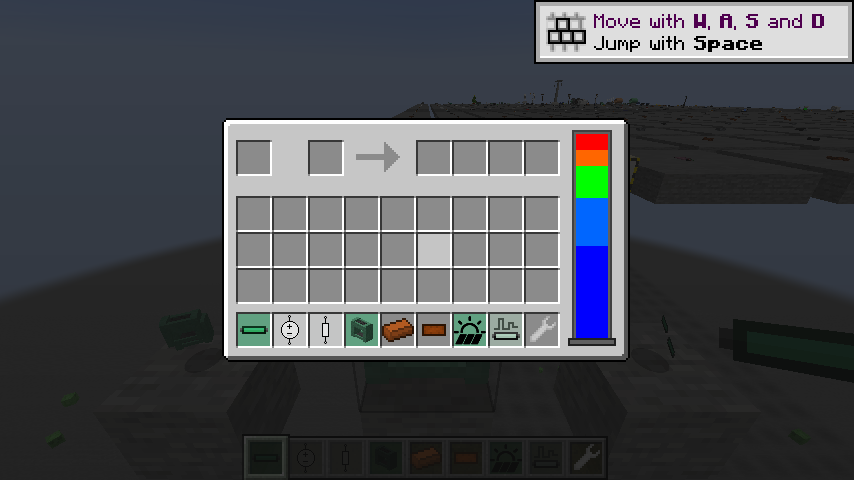
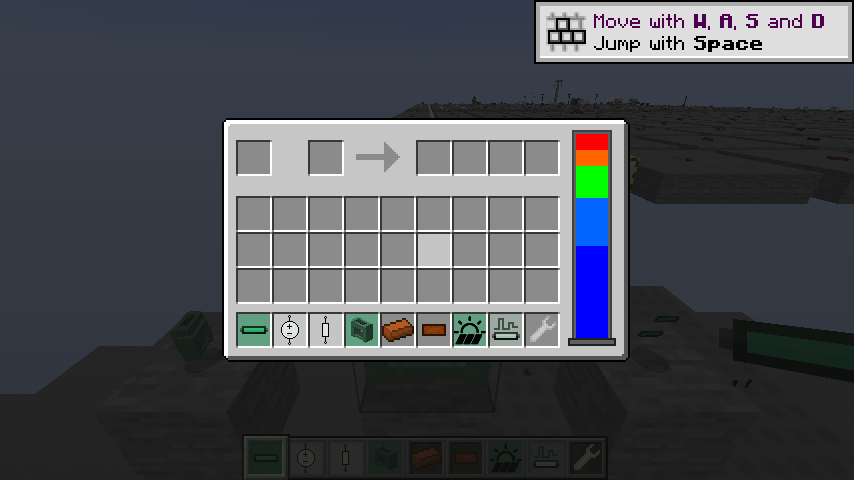
client: GL_LIGHTING off means unlit, the lightmap unit is a unit, the current normal resets per render
Every draw the emulator emitted went through the entity render types, whose shaders shade by
the vertex normal - and 1.7.10's icon code never sets a normal, so the voltage box behind every
inventory item, and any quad drawn without a normal, carried whatever the last model face left
in the current normal: 40% brightness on one machine, 100% on another, per frame. GL_LIGHTING
off now selects ElnRenderTypes.unlit (the text shader: colour x texture x lightmap, no normal),
which is what the fixed-function pipeline drew with lighting off; the current normal is reset to
GL's default when a render begins; inventory icons are drawn with lighting off, as Forge's
renderInventoryItem did around a custom flat icon.

OpenGlHelper.setActiveTexture was a no-op, so UtilsClient.disableLight - disable GL_TEXTURE_2D on
the lightmap unit - disabled the model's texture instead: glowing lamp parts drew as flat white.
The lightmap unit is tracked; off means full bright, the texture stays.

docs/port screenshots refreshed: the creative tab's voltage boxes are the 1.7.10 pastels in every row.

Claude-Session: https://claude.ai/code/session_01Lb5izv3ykLxYcSCdMc8SmK

Changed region(s): [[0.0, 0.5, 0.274, 0.8438], [0.7307, 0.5, 1.0, 0.7188]]

diff --git a/src/main/java/mods/eln/client/gl/FixedFunction.java b/src/main/java/mods/eln/client/gl/FixedFunction.java
@@ -53,6 +53,10 @@ public final class FixedFunction {
     /** The GL enable/disable flags and blend settings; copied on glPushAttrib. */
     static final class State implements Cloneable {
         boolean texture2d = true, lighting = true, cullFace = true, blend = false, depthTest = true, alphaTest = false, scissor = false, lineSmooth = false;
+        /** GL_TEXTURE_2D on 1.7.10's lightmap unit: off means the block light does not apply (glowing parts). */
+        boolean lightmap = true;
+        /** Which unit glEnable/glDisable(GL_TEXTURE_2D) addresses: 0 the texture, 1 the lightmap (OpenGlHelper.setActiveTexture). */
+        int activeTexture = 0;
         boolean depthMask = true;
         int blendSrc = GL11.GL_SRC_ALPHA, blendDst = GL11.GL_ONE_MINUS_SRC_ALPHA;
         float lineWidth = 1f;
@@ -91,7 +95,20 @@ public final class FixedFunction {
             packedOverlay = overlay;
             state = new State();
             attribStack.clear();
+            resetVertexState();
         }
+    }
+
+    /**
+     * The current normal (and texture coordinate) at GL's defaults, so a render that sets none
+     * does not inherit whatever the previous model's last face left behind.
+     */
+    private static void resetVertexState() {
+        nx = 0f;
+        ny = 0f;
+        nz = 1f;
+        u = 0f;
+        v = 0f;
     }
 
     /** Enters a GUI render: drawing goes straight through RenderSystem, in the GUI's pose. */
@@ -103,7 +120,13 @@ public final class FixedFunction {
             packedOverlay = OverlayTexture.NO_OVERLAY;
             state = new State();
             attribStack.clear();
+            resetVertexState();
         }
+    }
+
+    /** OpenGlHelper.setActiveTexture: 1.7.10 toggled the lightmap by disabling GL_TEXTURE_2D on its unit. */
+    static void activeTexture(int unit) {
+        state.activeTexture = unit;
     }
 
     /** Leaves the render entered with {@link #begin} / {@link #beginGui}, flushing the buffers. */
@@ -159,7 +182,9 @@ public final class FixedFunction {
     // ------------------------------------------------------------------ state
     static void enable(int cap, boolean on) {
         switch (cap) {
-            case GL11.GL_TEXTURE_2D -> state.texture2d = on;
+            case GL11.GL_TEXTURE_2D -> {
+                if (state.activeTexture == 1) state.lightmap = on; else state.texture2d = on;
+            }
             case GL11.GL_LIGHTING -> state.lighting = on;
             case GL11.GL_CULL_FACE -> state.cullFace = on;
             case GL11.GL_BLEND -> state.blend = on;
@@ -177,7 +202,7 @@ public final class FixedFunction {
 
     static boolean isEnabled(int cap) {
         return switch (cap) {
-            case GL11.GL_TEXTURE_2D -> state.texture2d;
+            case GL11.GL_TEXTURE_2D -> state.activeTexture == 1 ? state.lightmap : state.texture2d;
             case GL11.GL_LIGHTING -> state.lighting;
             case GL11.GL_CULL_FACE -> state.cullFace;
             case GL11.GL_BLEND -> state.blend;
@@ -281,7 +306,7 @@ public final class FixedFunction {
     }
 
     private static Batch current = null;
-    private static float u = 0f, v = 0f, nx = 0f, ny = 1f, nz = 0f;
+    private static float u = 0f, v = 0f, nx = 0f, ny = 0f, nz = 1f;   // GL defaults: normal toward the viewer
 
     // display lists
     private static final Map<Integer, List<Batch>> lists = new HashMap<>();
@@ -369,10 +394,13 @@ public final class FixedFunction {
         Matrix4f model = extra == null ? p.pose() : new Matrix4f(p.pose()).mul(extra);
         boolean textured = state.texture2d && state.texture != null;
         ResourceLocation tex = textured ? state.texture : WHITE;
-        int light = state.lighting ? packedLight : FULL_BRIGHT;
+        // the lightmap unit off (UtilsClient.disableLight) is full bright: glowing parts, GUI overlays
+        int light = state.lightmap ? packedLight : FULL_BRIGHT;
 
         if (buffers != null) {
+            // GL_LIGHTING on: the entity types, shaded by the normal. Off: no directional shading at all.
             RenderType type = lines ? RenderType.lines()
+                : !state.lighting ? ElnRenderTypes.unlit(tex, state.blend, state.cullFace)
                 : state.blend ? RenderType.entityTranslucent(tex)
                 : state.cullFace ? RenderType.entityCutout(tex) : RenderType.entityCutoutNoCull(tex);
             VertexConsumer vc = buffers.getBuffer(type);

diff --git a/src/main/java/mods/eln/client/gl/ElnRenderTypes.java b/src/main/java/mods/eln/client/gl/ElnRenderTypes.java
@@ -1,0 +1,51 @@
+package mods.eln.client.gl;
+
+import com.mojang.blaze3d.vertex.DefaultVertexFormat;
+import com.mojang.blaze3d.vertex.VertexFormat;
+import net.minecraft.client.renderer.RenderType;
+import net.minecraft.resources.ResourceLocation;
+
+import java.util.HashMap;
+import java.util.Map;
+
+/**
+ * The render types the fixed-function emulator needs and vanilla does not have: textured geometry
+ * with <b>no directional lighting</b>, which is what 1.7.10 drew whenever {@code GL_LIGHTING} was
+ * off (inventory icons, glowing lamp parts, cable sprites, GUI overlays). Every vanilla entity
+ * render type shades by the vertex normal; these use the text shader (colour x texture x
+ * lightmap, no normal at all), so a quad drawn without a normal comes out at its own colour.
+ *
+ * A subclass only to reach the protected state shards.
+ */
+public final class ElnRenderTypes extends RenderType {
+    private ElnRenderTypes(String name, VertexFormat format, VertexFormat.Mode mode, int bufferSize, boolean affectsCrumbling, boolean sortOnUpload, Runnable setup, Runnable clear) {
+        super(name, format, mode, bufferSize, affectsCrumbling, sortOnUpload, setup, clear);
+    }
+
+    private record Key(ResourceLocation texture, boolean blend, boolean cull) {
+    }
+
+    private static final Map<Key, RenderType> UNLIT = new HashMap<>();
+
+    /**
+     * Unlit textured quads, lit only by the lightmap: translucent-blended or cutout, back faces
+     * culled or not. The blended variant is depth-sorted on upload like every translucent type.
+     */
+    public static RenderType unlit(ResourceLocation texture, boolean blend, boolean cull) {
+        return UNLIT.computeIfAbsent(new Key(texture, blend, cull), key -> create(
+            "eln_unlit" + (blend ? "_translucent" : "_cutout") + (cull ? "" : "_no_cull"),
+            DefaultVertexFormat.POSITION_COLOR_TEX_LIGHTMAP,
+            VertexFormat.Mode.QUADS,
+            1536,
+            false,
+            blend,
+            CompositeState.builder()
+                .setShaderState(RENDERTYPE_TEXT_SHADER)
+                .setTextureState(new TextureStateShard(texture, false, false))
+                .setTransparencyState(blend ? TRANSLUCENT_TRANSPARENCY : NO_TRANSPARENCY)
+                .setCullState(cull ? CULL : NO_CULL)
+                .setLightmapState(LIGHTMAP)
+                .createCompositeState(false)
+        ));
+    }
+}

diff --git a/src/main/java/mods/eln/client/itemrender/NodeItemRenderer.java b/src/main/java/mods/eln/client/itemrender/NodeItemRenderer.java
@@ -73,6 +73,8 @@ public final class NodeItemRenderer extends BlockEntityWithoutLevelRenderer {
         }
         FixedFunction.begin(poseStack, buffers, light, overlay);
         try {
+            // Forge's inventory render of a flat custom icon turned GL_LIGHTING off around it: the sprite at its own colours
+            if (flatIcon) mods.eln.client.gl.GL11.glDisable(mods.eln.client.gl.GL11.GL_LIGHTING);
             renderer.renderItem(type, stack);
         } finally {
             FixedFunction.finish();

diff --git a/src/main/java/mods/eln/client/gl/OpenGlHelper.java b/src/main/java/mods/eln/client/gl/OpenGlHelper.java
@@ -12,6 +12,7 @@ public final class OpenGlHelper {
     public static int lastBrightnessX = 240, lastBrightnessY = 240;
 
     public static void setActiveTexture(int unit) {
+        FixedFunction.activeTexture(unit == lightmapTexUnit ? 1 : 0);
     }
 
     /** Lightmap coordinates are 0..240 in 1.7.10 terms (block, sky); pack them the way the light texture does. */

diff --git a/PORT-1.21.md b/PORT-1.21.md
@@ -51,6 +51,7 @@ runs in order; each exits 1 on a failed check):
 | Item models | Generated: `item/generated` with the icon and the voltage-level background as `layer0` for plain items; `builtin/entity` plus display transforms for node items, which `NodeItemRenderer` (a `BlockEntityWithoutLevelRenderer`) draws through the descriptor's own 1.7.10 `renderItem` body - the flat sprite (16-pixel, y-down space) in the inventory, the OBJ model in hand and on the ground. Descriptors that asked for 1.7.10's INVENTORY_BLOCK helper, or whose sprite the asset tree never had, draw their model in the inventory with a block's GUI transform. The families' per-type hand transforms were tuned for the 1.7.10 hand space and are not used; the display transforms in the model are. |
 | Textures | Kept under `textures/items/`, `textures/blocks/`, `textures/voltages/` (1.12 layout). 1.19.3+ only stitches the directories listed in `atlases/blocks.json`, so `assets/minecraft/atlases/blocks.json` adds those three sources. Resource paths are `[a-z0-9/._-]`: the registrations still name sprites the 1.7.10 way and are lowercased where they are built (cable sprites, model textures), `festive items` is `festive_items`, `(noswing)` is `_noswing`. |
 | Rendering | A fixed-function OpenGL emulator (`mods.eln.client.gl`: `GL11`, `FixedFunction`, display lists) on top of 1.21's `PoseStack`/`VertexConsumer`/`RenderSystem`, so the ~150 `draw()` bodies keep their shape. Frame-level `FixedFunction.begin(pose, buffers, light, overlay)`/`beginGui(graphics)`/`finish()`; `SixNodeRender`/`TransparentNodeRender` are `BlockEntityRenderer`s wrapping it. Node blocks have no JSON model (invisible blockstate); the slab/box shapes come from the node. |
+| Lighting in the emulator | 1.7.10 had three switches and the port keeps all three apart: `GL_LIGHTING` (directional shading by the normal) picks the entity render types when on and `ElnRenderTypes.unlit` (the text shader: colour x texture x lightmap, no normal) when off; `GL_TEXTURE_2D` on the lightmap unit (`OpenGlHelper.setActiveTexture`, what `UtilsClient.disableLight` toggles) picks the block light or full bright, so a glowing bulb is textured and bright while its socket stays lit by the world; the current normal is reset to GL's default at every `begin`, so a quad drawn without one (icons, overlays) no longer inherits the last face of whatever model drew before it. Inventory icons are drawn with lighting off, as Forge's `renderInventoryItem` did. |
 | Hit sides | 1.7.10's ray trace named the block face an element sits on; 1.21's names the face of the element's slab that was hit (a floor element's top is UP). `SixNodeBlock.elementSide` maps a hit back to the element whose slab holds it, for activation and breaking. |
 | Node light | A node's light is live data, not a state property. The server's light engine runs off the main thread (where `Level.getBlockEntity` is null) and lights chunks straight from disk before their entities exist, so the node blocks declare `hasDynamicLightEmission` and read the chunk's `AuxiliaryLightManager`; the node writes its light there when it changes, the client writes what the publish frame carries, and a node's block entity re-syncs the record when its chunk loads (nodes simulate while unloaded). The record is saved and sent with the chunk. The invisible light block a lamp projects keeps its level in a state property (`light`). |
 | Node lighting when drawn | 1.7.10's `NodeBlock` set `useNeighborBrightness`: a tile entity was lit by the brightest of its six neighbours. The dispatcher lights a block entity with its own position's light, which inside a machine that blocks light is next to none, so the two node renderers take the neighbour maximum themselves (`NodeRenderSupport.neighbourLight`). |
@@ -102,6 +103,12 @@ runs in order; each exits 1 on a failed check):
   read as `block.eln.…` and were in no tab; they use their `tile.…name` keys and sit in Power
   Electronics / Signal Processing as on 1.7.10. The fluids, buckets, entities and the descriptor-less
   blocks have lang entries under their 1.21 registry keys.
+- **Icons and glowing parts are lit as on 1.7.10.** Every emulator draw went through the entity
+  shaders, which shade by the vertex normal, and icons never set one: the voltage boxes behind every
+  item, and anything else drawn without a normal, came out at 40-100% brightness depending on the
+  last model face drawn before them (dark on one machine, bright on another). `disableLight` also
+  turned off the *texture* rather than the lightmap (the emulator ignored the texture unit), so
+  glowing parts drew as flat white. Both are modelled now (see "Lighting in the emulator").
 - **Element inventories save their items.** `ItemStack.save(provider, prefix)` returns a copy since
   1.20.5; the `writeToNBT(tag)` bridge returned it and every caller ignored it, so a saved slot carried
   only its index and every machine came back empty after a restart. The bridge merges into the tag
